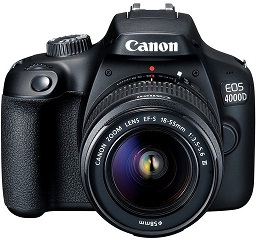
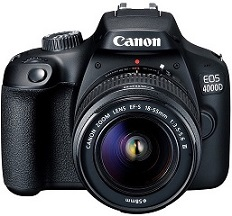
Resize imgs

diff --git a/src/reducers/reducers-products.js b/src/reducers/reducers-products.js
@@ -18,7 +18,7 @@ export default function () {
     {
       id: 1,
       name: "BENRO głowica do tripodu B-0",
-      img: "../../images/glowicaBenro1.jpg",
+      img: "../../images/glowicaBenro1min.jpg",
       price: 359.00,
       desc:
         "Benro B-0  to precyzyjna głowica kulowa, której powierzchnia została wykonana z najwyższej jakości anodowego aluminium, które zapobiega korozji, zapewniając długie lata korzystania z głowicy.",
@@ -32,7 +32,7 @@ export default function () {
     {
       id: 2,
       name: "PANASONIC aparat cyfrowy Lumix DMC-TZ100",
-      img: "../../images/panasonicLumix1.jpg",
+      img: "../../images/panasonicLumix1min.jpg",
       price: 2275.00,
       desc:
         "Matryca MOS o wysokiej czułości (typ 1) / Całkowita liczba pikseli 20,9 megapikseli / Podstawowy filtr koloru.",
@@ -46,7 +46,7 @@ export default function () {
     {
       id: 3,
       name: "PANASONIC aparat cyfrowy Lumix DMC-LX100",
-      img: "../../images/Panasonic1.jpg",
+      img: "../../images/Panasonic1min.jpg",
       price: 2059.00,
       desc:
         "LUMIX LX100 należy do najwyższej klasy aparatów kompaktowych Panasonic.",
@@ -61,7 +61,7 @@ export default function () {
     {
       id: 4,
       name: "CANON Speedlite 600EX-RT",
-      img: "../../images/lampaBlyskowa1.jpg",
+      img: "../../images/lampaBlyskowa1min.jpg",
       price: 2315.00,
       desc:
         "Wszechstronna, wydajna lampa błyskowa montowana na aparacie lub poza nim. To pierwsza lampa błyskowa firmy Canon wyposażona we wbudowaną bezprzewodową łączność radiową. Zastępuje ona model Speedlite 580EX II.",
@@ -75,7 +75,7 @@ export default function () {
     {
       id: 5,
       name: "Lampa błyskowa MEIKE MK-320",
-      img: "../../images/lampaBlyskowaMeike1.jpg",
+      img: "../../images/lampaBlyskowaMeike1min.jpg",
       price: 359.00,
       desc:
         "Lampa Meike 320 jest kompaktową lampą błyskową, (110mm długość, 65mm szerokość, 36mm wysokość) oraz wadze jedynie 150 gramów. Idealnie nadaje się do niewielkich lustrzanek, aparatów bez-lusterkowych (CSC) i kompaktowych.",
@@ -89,7 +89,7 @@ export default function () {
     {
       id: 6,
       name: "LEXAR Professional 1000X 64GB SDHC/SDXC",
-      img: "../../images/kartaPamieci1.jpg",
+      img: "../../images/kartaPamieci1min.jpg",
       price: 199.00,
       desc:
         "LEXAR Professional 1000X 64GB SDHC/SDXC UHS-II szybkie przechwytywanie i przesyłanie wysokiej jakości zdjęć oraz wideo 1080p, 3D i 4K, z prędkością odczytu do 1000x (150 MB / s). Karty wykorzystują technologię UHS-II (UHS Speed Class 3 (U3) ) dla wysokiej wydajności.",
@@ -103,7 +103,7 @@ export default function () {
     {
       id: 7,
       name: "SanDisk EXTREME PRO SDXC 128 GB",
-      img: "../../images/kartaPamieciSanDisk1.jpg",
+      img: "../../images/kartaPamieciSanDisk1min.jpg",
       price: 159.00,
       desc:
         "SanDisk EXTREME PRO SDXC 128 GB 170/90 MB/s V30 UHS-I U3",
@@ -117,7 +117,7 @@ export default function () {
     {
       id: 8,
       name: "COMMLITE Mikrofon do kamer i aparatów",
-      img: "../../images/mikrofon1.jpg",
+      img: "../../images/mikrofon1min.jpg",
       price: 139.00,
       desc:
         "Commlite CVM-10 to kierunkowy mikrofon mocowany do gorącej stopki kamer lub aparatów cyfrowych wyposażonych w wejście mini stereo ( Jack 3,5 mm ).",
@@ -131,7 +131,7 @@ export default function () {
     {
       id: 9,
       name: "RODE mikrofon zewnętrzny Stereo VideoMic X",
-      img: "../../images/mikrofonRode1.jpg",
+      img: "../../images/mikrofonRode1min.jpg",
       price: 3555.00,
       desc:
         "Rode Stereo VideoMic X jest stereofonicznym mikrofonem  najwyższej jakości (transmisyjnej),przeznaczonym do montażu na kamerach i aparatach.",
@@ -145,7 +145,7 @@ export default function () {
     {
       id: 10,
       name: "RODE RodeLink Filmmaker Kit do bezprzewodowego nagrywania dźwięku ",
-      img: "../../images/mikrofonRodeLink.jpg",
+      img: "../../images/mikrofonRodeLinkmin.jpg",
       price: 1559.00,
       desc:
         "RØDELink Filmmaker Kit zapewnia wszystko, czego potrzeba do bezprzewodowego nagrywania filmów, łącznie z odbiornikiem, nadajnikiem i mikrofonem typu lavalier o jakości emisyjnej.",
@@ -159,7 +159,7 @@ export default function () {
     {
       id: 11,
       name: "SARAMONIC SmartMixer",
-      img: "../../images/mikrofonSmartMixer1.jpg",
+      img: "../../images/mikrofonSmartMixer1min.jpg",
       price: 159.00,
       desc:
         "SARAMONIC SmartMixer to dwukanałowy adapter audio przeznaczony dla urządzeń pracujących pod kontrolą systemów iOS i Android oraz kamer i aparatów VDSLR wyposażonych w gniazdo mikrofonowe stereo mini-jack 3,5 mm. ",
@@ -173,7 +173,7 @@ export default function () {
     {
       id: 12,
       name: "BENRO głowica do tripodu IB2",
-      img: "../../images/glowicaDoTripodu1.jpg",
+      img: "../../images/glowicaDoTripodu1min.jpg",
       price: 415.00,
       desc:
         "Wysokiej jakości, solidna głowica adresowana do zaawansowanych fotografów.",
@@ -187,7 +187,7 @@ export default function () {
     {
       id: 13,
       name: "NIKON D3400 Body",
-      img: "../../images/nikon1.jpg",
+      img: "../../images/nikon1min.jpg",
       price: 1559.00,
       desc:
         "Lustrzanka cyfrowa Nikon D3400 zapewnia niezrównaną szybkość, precyzję i łatwość obsługi.",
@@ -215,7 +215,7 @@ export default function () {
     {
       id: 15,
       name: "Dron DJI MAVIC Pro Combo Quadrocopter",
-      img: "../../images/dronCombo3.jpg",
+      img: "../../images/dronCombo3min.jpg",
       price: 5245.00,
       desc:
         "Dron DJI MAVIC Pro Combo Quadrocopter",
@@ -229,7 +229,7 @@ export default function () {
     {
       id: 16,
       name: "DJI Phantom 4 Advanced Quadrocopter",
-      img: "../../images/dronPhanton1.jpg",
+      img: "../../images/dronPhanton1min.jpg",
       price: 5095.00,
       desc:
         "DJI Phantom 4 Advanced Quadrocopter",
@@ -243,7 +243,7 @@ export default function () {
     {
       id: 17,
       name: "DJI SPARK Fly More Combo Quadrocopter",
-      img: "../../images/dronSPARK1.jpg",
+      img: "../../images/dronSPARK1min.jpg",
       price: 2695.00,
       desc:
         "DJI Spark to mini quadrocopter, który mimo swoich kompaktowych rozmiarów (143×143×55 mm), oraz wagi (zaledwie 300g) posiada wszystkie niesamowite rozwiązania znane z poprzednich wersji quadrocopterów DJI, jak np. inteligentne tryby lotu ActiveTrack, TapFly oraz dwa nowe.",
